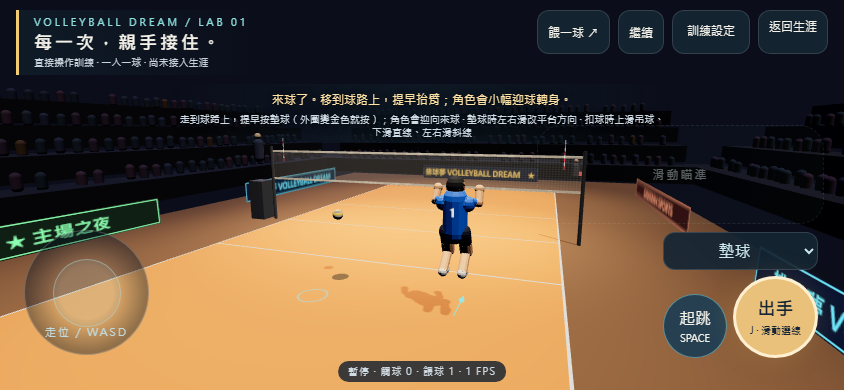
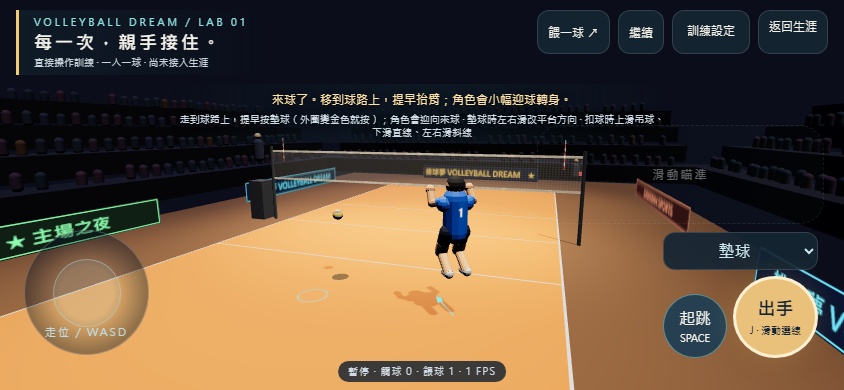
Fix receive auto-face to half (45°); drop the trial setting
User chose half after trying all three. The setting and the manual/full
modes are removed; receive always turns toward the setter zone within 45°.
Rescue probe: no-turn 13/33, half 25/33. Handoff and index updated.

Claude-Session: https://claude.ai/code/session_014M2tb1h6kPn98BFmw7TRC3

Changed region(s): [[0.4929, 0.5846, 0.5853, 0.7385], [0.4929, 0.4615, 0.5853, 0.5538], [0.4621, 0.7385, 0.5545, 0.8308]]

diff --git a/tests/direct-auto-face.test.js b/tests/direct-auto-face.test.js
@@ -1,4 +1,5 @@
-// Receive auto-face trial modes. Acceptance: docs/kickoffs/direct-auto-face-acceptance.md
+// Receive auto-face, fixed to half (45°) by user choice 2026-09-25.
+// Acceptance: docs/kickoffs/direct-auto-face-acceptance.md (revision log)
 import test from 'node:test';
 import assert from 'node:assert/strict';
 import { autoFaceAim, AUTO_FACE_TARGET as T } from '../src/input/directAutoFace.js';
@@ -7,21 +8,19 @@ import { createDirectGame, stepDirectGame, snapshotDirectGame, restoreDirectGame
 const angleOf = a => Math.atan2(a.x, -a.z);
 const deg = r => r * 180 / Math.PI;
 
-test('A20a 朝向計算：手動不改、全自動指向目標、半自動夾在 ±45°、球不在場上不改', () => {
+test('A20a 朝向計算：指向舉球區並夾在 ±45°、球不在場上不改', () => {
   const ball = { active: true };
-  assert.equal(autoFaceAim('manual', { x: 3, z: 5 }, ball), null);
-  for (const [x, z] of [[3.5, 5], [-4, 2.5], [0, 8.5], [4.4, 4]]) {
-    const full = autoFaceAim('full', { x, z }, ball);
-    const want = Math.atan2(T.x - x, -(T.z - z));
-    assert.ok(Math.abs(Math.hypot(full.x, full.z) - 1) < 1e-9, '單位向量');
-    assert.ok(Math.abs(angleOf(full) - want) < 1e-9, `全自動指向目標 (${x}, ${z})`);
-    const half = autoFaceAim('half', { x, z }, ball);
-    const limited = Math.max(-Math.PI / 4, Math.min(Math.PI / 4, want));
-    assert.ok(Math.abs(angleOf(half) - limited) < 1e-9, `半自動夾在 ±45° (${x}, ${z}: ${deg(angleOf(half)).toFixed(1)}°)`);
+  for (const [x, z] of [[3.5, 5], [-4, 2.5], [0, 8.5], [4.4, 4], [1, 5]]) {
+    const aim = autoFaceAim({ x, z }, ball);
+    const want = Math.max(-Math.PI / 4, Math.min(Math.PI / 4, Math.atan2(T.x - x, -(T.z - z))));
+    assert.ok(Math.abs(Math.hypot(aim.x, aim.z) - 1) < 1e-9, '單位向量');
+    assert.ok(Math.abs(angleOf(aim) - want) < 1e-9, `(${x}, ${z}: ${deg(angleOf(aim)).toFixed(1)}°)`);
   }
-  for (const mode of ['manual', 'half', 'full']) assert.equal(autoFaceAim(mode, { x: 3, z: 5 }, { active: false }), null, mode);
+  assert.equal(autoFaceAim({ x: 3, z: 5 }, { active: false }), null);
 });
 
+// 'half' uses autoFaceAim; 'net' is the no-turn baseline (fixed facing the net).
+const aimFor = (mode, player, ball) => (mode === 'half' ? autoFaceAim(player, ball) : null);
 // Player already under a shanked ball near the boundary; the ball drops onto the
 // platform while drifting outward. Heading each tick comes from autoFaceAim.
 const SPOTS = [[3.5, 5], [-3.5, 5], [4.2, 7.5], [-4.2, 7.5], [0, 8.5], [2.5, 8.5], [-2.5, 8.5], [4, 2.5], [-4, 2.5], [4.4, 4], [-4.4, 4]];
@@ -29,13 +28,13 @@ const SPOTS = [[3.5, 5], [-3.5, 5], [4.2, 7.5], [-4.2, 7.5], [0, 8.5], [2.5, 8.5
 // tick branches from a bit-exact snapshot (A5 guarantees restore equality).
 function scenario(mode, spot, drift) {
   const s = createDirectGame(); s.player.x = spot[0]; s.player.z = spot[1];
-  const settled = autoFaceAim(mode, s.player, { active: true }) ?? { x: 0, z: -1 };
+  const settled = aimFor(mode, s.player, { active: true }) ?? { x: 0, z: -1 };
   const h = s.player.height, cx = spot[0] + settled.x * 0.4 * h, cz = spot[1] + settled.z * 0.4 * h;
   const out = { x: Math.sign(spot[0]) || 0, z: spot[1] > 7 ? 1 : 0 }, ol = Math.hypot(out.x, out.z) || 1;
   const vx = out.x / ol * drift, vz = out.z / ol * drift, t = Math.sqrt(2 * 2.6 / 9.81);
   Object.assign(s.ball, { active: true, x: cx - vx * t, y: 3.5, z: cz - vz * t, vx, vy: 0, vz });
   const step = (g, action) => {
-    const aim = autoFaceAim(mode, g.player, g.ball) ?? { x: 0, z: -1 };
+    const aim = aimFor(mode, g.player, g.ball) ?? { x: 0, z: -1 };
     stepDirectGame(g, [{ tick: g.tick, sequence: 0, move: { x: 0, z: 0 }, aim, action }]);
   };
   const results = [];
@@ -68,12 +67,11 @@ function saves(mode) {
   return { saved, windows, rate: windows / total };
 }
 
-test('A20c／A20d 追到球底下時的救回率：全自動 ≥ 25/33、半自動 ≥ 21/33、手動 = 13/33；全自動不是保證', () => {
-  const full = saves('full'), half = saves('half'), manual = saves('manual');
-  assert.equal(manual.saved, 13, `手動 ${manual.saved}/33`);
-  assert.ok(full.saved >= 25, `全自動 ${full.saved}/33`);
+test('A20c／A20d 追到球底下時的救回率：半自動 ≥ 21/33 且勝過不轉身（= 13/33）；不是保證', () => {
+  const half = saves('half'), net = saves('net');
+  console.log(`[A20c] net ${net.saved}/${net.windows} half ${half.saved}/${half.windows}`);
+  assert.equal(net.saved, 13, `不轉身基準 ${net.saved}/33`);
   assert.ok(half.saved >= 21, `半自動 ${half.saved}/33`);
-  assert.ok(full.saved >= half.saved && half.saved > manual.saved, `全自動 ${full.saved} ≥ 半自動 ${half.saved} > 手動 ${manual.saved}`);
-  console.log(`[A20c] manual ${manual.saved}/${manual.windows} half ${half.saved}/${half.windows} full ${full.saved}/${full.windows}`);
-  assert.ok(full.rate <= 0.60, `全自動時機組合救回率 ${(full.rate * 100).toFixed(0)}% ≤ 60%`);
+  assert.ok(half.saved > net.saved, `半自動 ${half.saved} > 不轉身 ${net.saved}`);
+  assert.ok(half.rate <= 0.60, `半自動時機組合救回率 ${(half.rate * 100).toFixed(0)}% ≤ 60%`);
 });

diff --git a/src/app/directPractice.js b/src/app/directPractice.js
@@ -34,7 +34,6 @@ export function runDirectPractice(ctx) {
         <details class="dp-settings"><summary>訓練設定</summary><div class="dp-settings-box">
           <label>餵球種類<select data-feed-kind><option value="receive">接球練習</option><option value="spike">高球進攻</option><option value="block">網前攔網</option><option value="pass-drill">接球方向練習</option></select></label>
           <label>資訊輔助<select data-assist><option value="beginner">入門 · 預測落點</option><option value="standard">標準 · 只看球影</option><option value="advanced">進階 · 關閉額外提示</option></select></label>
-          <label>接球轉身<select data-face><option value="manual">手動 · 只迎球</option><option value="half">半自動 · 最多 45°</option><option value="full">全自動 · 對準舉球區</option></select></label>
           <label>身高 <output data-height-label>175 cm</output><input data-height type="range" min="150" max="210" value="175" step="1"></label>
           <p>更改身高會開始新一輪訓練。資訊提示不改變碰撞判定；接球的小幅迎球轉身是基本操作。</p>
           <button data-replay>回放本輪</button><button data-export>匯出回放</button><button data-restart>重新開始</button>
@@ -201,9 +200,9 @@ export function runDirectPractice(ctx) {
       while (playback.index < playback.commands.length && playback.commands[playback.index].tick === state.tick) commands.push(playback.commands[playback.index++]);
     } else {
       commands = controls.sample(state.tick);
-      // Receive auto-face trial: the heading turns toward the setter zone while
-      // the receive action is selected and the ball is live (commands only).
-      const faceAim = $('[data-action]').value === 'receive' ? autoFaceAim($('[data-face]').value, state.player, state.ball) : null;
+      // Receive auto-face: the heading turns toward the setter zone (at most 45°)
+      // while the receive action is selected and the ball is live (commands only).
+      const faceAim = $('[data-action]').value === 'receive' ? autoFaceAim(state.player, state.ball) : null;
       if (faceAim) commands = commands.map(command => ({ ...command, aim: faceAim }));
       while (injected.length) commands.push({ ...injected.shift(), tick: state.tick, sequence: 100000 + commands.length });
       if (state.tick >= MAX_TAPE_TICKS) { setPaused(true); message('本輪已達 10 分鐘，請匯出回放後重新開始。'); return; }
@@ -256,7 +255,7 @@ export function runDirectPractice(ctx) {
     // A held touch receive passes with its chosen platform when released.
     const passType = (!playback && controls.getState().heldPassType) || 'NEUTRAL';
     // Auto-face turns the body before contact; rehearse with the same headings.
-    const face = !playback && $('[data-action]').value === 'receive' ? $('[data-face]').value : 'manual';
+    const face = !playback && $('[data-action]').value === 'receive';
     const key = `${state.tick}:${playback ? 'p' : 'l'}:${passType}:${face}`;
     if (rehearsal.key === key) return rehearsal.value;
     const copy = snapshotDirectGame(state);
@@ -265,7 +264,7 @@ export function runDirectPractice(ctx) {
     // An active platform contact can only happen within windup + active ticks.
     const window = DIRECT_ACTIONS.receive.windup + DIRECT_ACTIONS.receive.active;
     for (let i = 0; i < window && copy.ball.active; i++) {
-      const heading = autoFaceAim(face, copy.player, copy.ball) ?? aim;
+      const heading = (face && autoFaceAim(copy.player, copy.ball)) || aim;
       stepDirectGame(copy, [{ tick: copy.tick, sequence: 0, move: { x: 0, z: 0 }, aim: heading, action: i === 0 ? 'receive' : null, passType }]);
       const contact = copy.events.find(e => e.type === 'contact');
       if (contact) { value = contact.active && (contact.part === 'forearm' || contact.part === 'hand'); break; }

diff --git a/src/input/directAutoFace.js b/src/input/directAutoFace.js
@@ -1,15 +1,13 @@
-// Receive auto-face (trial modes, 2026-09-25): while the receive action is
-// selected and the ball is live, the heading sent to the simulation turns the
-// body toward the setter zone. The simulation itself is unchanged; headings
-// are ordinary recorded commands.
+// Receive auto-face (user choice 2026-09-25: half, 45°): while the receive
+// action is selected and the ball is live, the heading sent to the simulation
+// turns the body toward the setter zone, at most 45° from squarely facing the
+// net. The simulation itself is unchanged; headings are ordinary recorded commands.
 export const AUTO_FACE_TARGET = { x: 0, z: 1.6 };
-export const AUTO_FACE_HALF_LIMIT = Math.PI / 4; // from squarely facing the net
-export const AUTO_FACE_MODES = ['manual', 'half', 'full'];
+export const AUTO_FACE_LIMIT = Math.PI / 4;
 
-export function autoFaceAim(mode, player, ball) {
-  if (mode !== 'half' && mode !== 'full') return null;
+export function autoFaceAim(player, ball) {
   if (!ball?.active) return null;
-  let angle = Math.atan2(AUTO_FACE_TARGET.x - player.x, -(AUTO_FACE_TARGET.z - player.z));
-  if (mode === 'half') angle = Math.max(-AUTO_FACE_HALF_LIMIT, Math.min(AUTO_FACE_HALF_LIMIT, angle));
+  const toward = Math.atan2(AUTO_FACE_TARGET.x - player.x, -(AUTO_FACE_TARGET.z - player.z));
+  const angle = Math.max(-AUTO_FACE_LIMIT, Math.min(AUTO_FACE_LIMIT, toward));
   return { x: Math.sin(angle), z: -Math.cos(angle) };
 }

diff --git a/docs/handoffs/direct-play-v5.md b/docs/handoffs/direct-play-v5.md
@@ -4,8 +4,9 @@
 
 先讀本檔，再看三份凍結驗收條件（各含檔尾修訂紀錄）：
 - `docs/kickoffs/direct-v5-forward-absorb-acceptance.md`（A18，往前吸收）
-- `docs/kickoffs/direct-v5-hold-release-acceptance.md`（A19，按住預選、放開出手）
-- `docs/kickoffs/direct-auto-face-acceptance.md`（A20，接球自動轉身三種試用模式）
+- `docs/kickoffs/direct-v5-hold-release-acceptance.md`（A19，已退場）
+- `docs/kickoffs/direct-v5-press-receive-acceptance.md`（A21，按下即出手＋點擊停留測試）
+- `docs/kickoffs/direct-auto-face-acceptance.md`（A20，接球自動轉身；修訂紀錄記載定案為半自動）
 
 前一版是 [direct-v4](direct-play-receive-platform-v4.md)（`91d7d93`）。
 
@@ -16,15 +17,14 @@
    - 橫移、後退照舊傳到球上。
    - 扣球、被動觸球不吸收。
    - 往前移動中觸球：碰網 83% → 0%，舉球區 1% → 89%。
-2. **觸控墊球改成「按住預選、放開出手」**（只動輸入層與畫面）
-   - 選墊球時，按住出手鈕、左右滑選平台方向（按鈕上方顯示「◀ 放開 · 偏左」等），放開那一刻才墊球。
-   - 金色時機提示代表「現在放開」，預演時會帶入按住中的方向。
-   - 扣球、舉球、攔網、起跳、餵球、鍵盤都維持按下即出手。
-3. **接球自動轉身，三種試用模式**（訓練設定 →「接球轉身」，只改送進模擬的朝向指令）
-   - 手動（預設，現況）、半自動（相對正對球網最多 45°）、全自動（對準舉球區 (0, 1.6)）。
-   - 已追到球底下的 33 種情境，救回場內：手動 13、半自動 25、全自動 29。
-   - 全自動也只有約 38% 的按鍵時機救得回來，不是保證接到。
-   - **使用者試玩後選一種保留，其餘移除。**
+2. **觸控墊球維持「按下即出手」**（A21）
+   - 曾試「按住預選、放開出手」（A19），真機試玩球都起不來：點擊停留時間變成延遲，停 6 tick 只剩 5/11 起球。已依使用者裁定退場。
+   - 按下後左右滑選平台方向，按鈕上方顯示「◀ 偏左／正前／偏右 ▶」。
+   - 點擊停留 0／3／6／9 tick 起球 11／11／11／10（/11），由 `--pass` 治具把關。
+3. **接球自動轉身，固定半自動**（使用者試玩三種後選定；只改送進模擬的朝向指令）
+   - 選墊球且球在場上時，朝向轉向舉球區 (0, 1.6)，相對正對球網最多 45°。
+   - 已追到球底下的 33 種情境：不轉身救回 13，半自動救回 25（全自動 29，已退場）。
+   - 半自動只有約 34% 的按鍵時機救得回來，不是保證接到。
 
 ## 審查紀錄
 

diff --git a/docs/handoffs/INDEX.md b/docs/handoffs/INDEX.md
@@ -4,4 +4,4 @@
 - [直接操作動作與四向扣球：direct-v2](direct-play-motion-v2.md) — 恢復原作幾何隊服，實體步態與觸球姿勢，滑動選直線／斜線／吊球。
 - [直接操作接球迎球容錯：direct-v3](direct-play-receive-assist-v3.md) — 墊球時身體小幅迎向來球（±35°、不加衝量、不放大碰撞體），含審查修正紀錄。
 - [直接操作接球平台：direct-v4](direct-play-receive-platform-v4.md) — 平台面法線、中性到位球、左右滑改平台方向、迎球面向來球路線＋側伸、平台線與時機提示、接球方向練習；上下滑暫停用。
-- [直接操作 direct-v5](direct-play-v5.md) — 往前跑著墊球不推進網、觸控墊球按住預選放開出手、接球自動轉身三種試用模式；最新接手入口。
+- [直接操作 direct-v5](direct-play-v5.md) — 往前跑著墊球不推進網、按下即出手（點擊停留測試）、接球自動轉身固定半自動 45°；最新接手入口。

diff --git a/docs/kickoffs/direct-auto-face-acceptance.md b/docs/kickoffs/direct-auto-face-acceptance.md
@@ -42,7 +42,6 @@
 
 ## 修訂紀錄
 
-（無）
 - **2026-09-25 使用者試玩後選定半自動（試用結束）**：手動與全自動退場，「接球轉身」選單移除，接球一律半自動（相對正對球網最多 45°）。依使用者裁定，本檔條文改為：
   - A20a：`autoFaceAim(player, ball)` 只剩半自動行為，也就是指向 (0, 1.6) 並夾在 ±45°；球不在場上時回傳 `null`。
   - A20b：只有「動作選單為墊球」且非回放時才改寫朝向；其他動作的指令與現行逐值相同。
